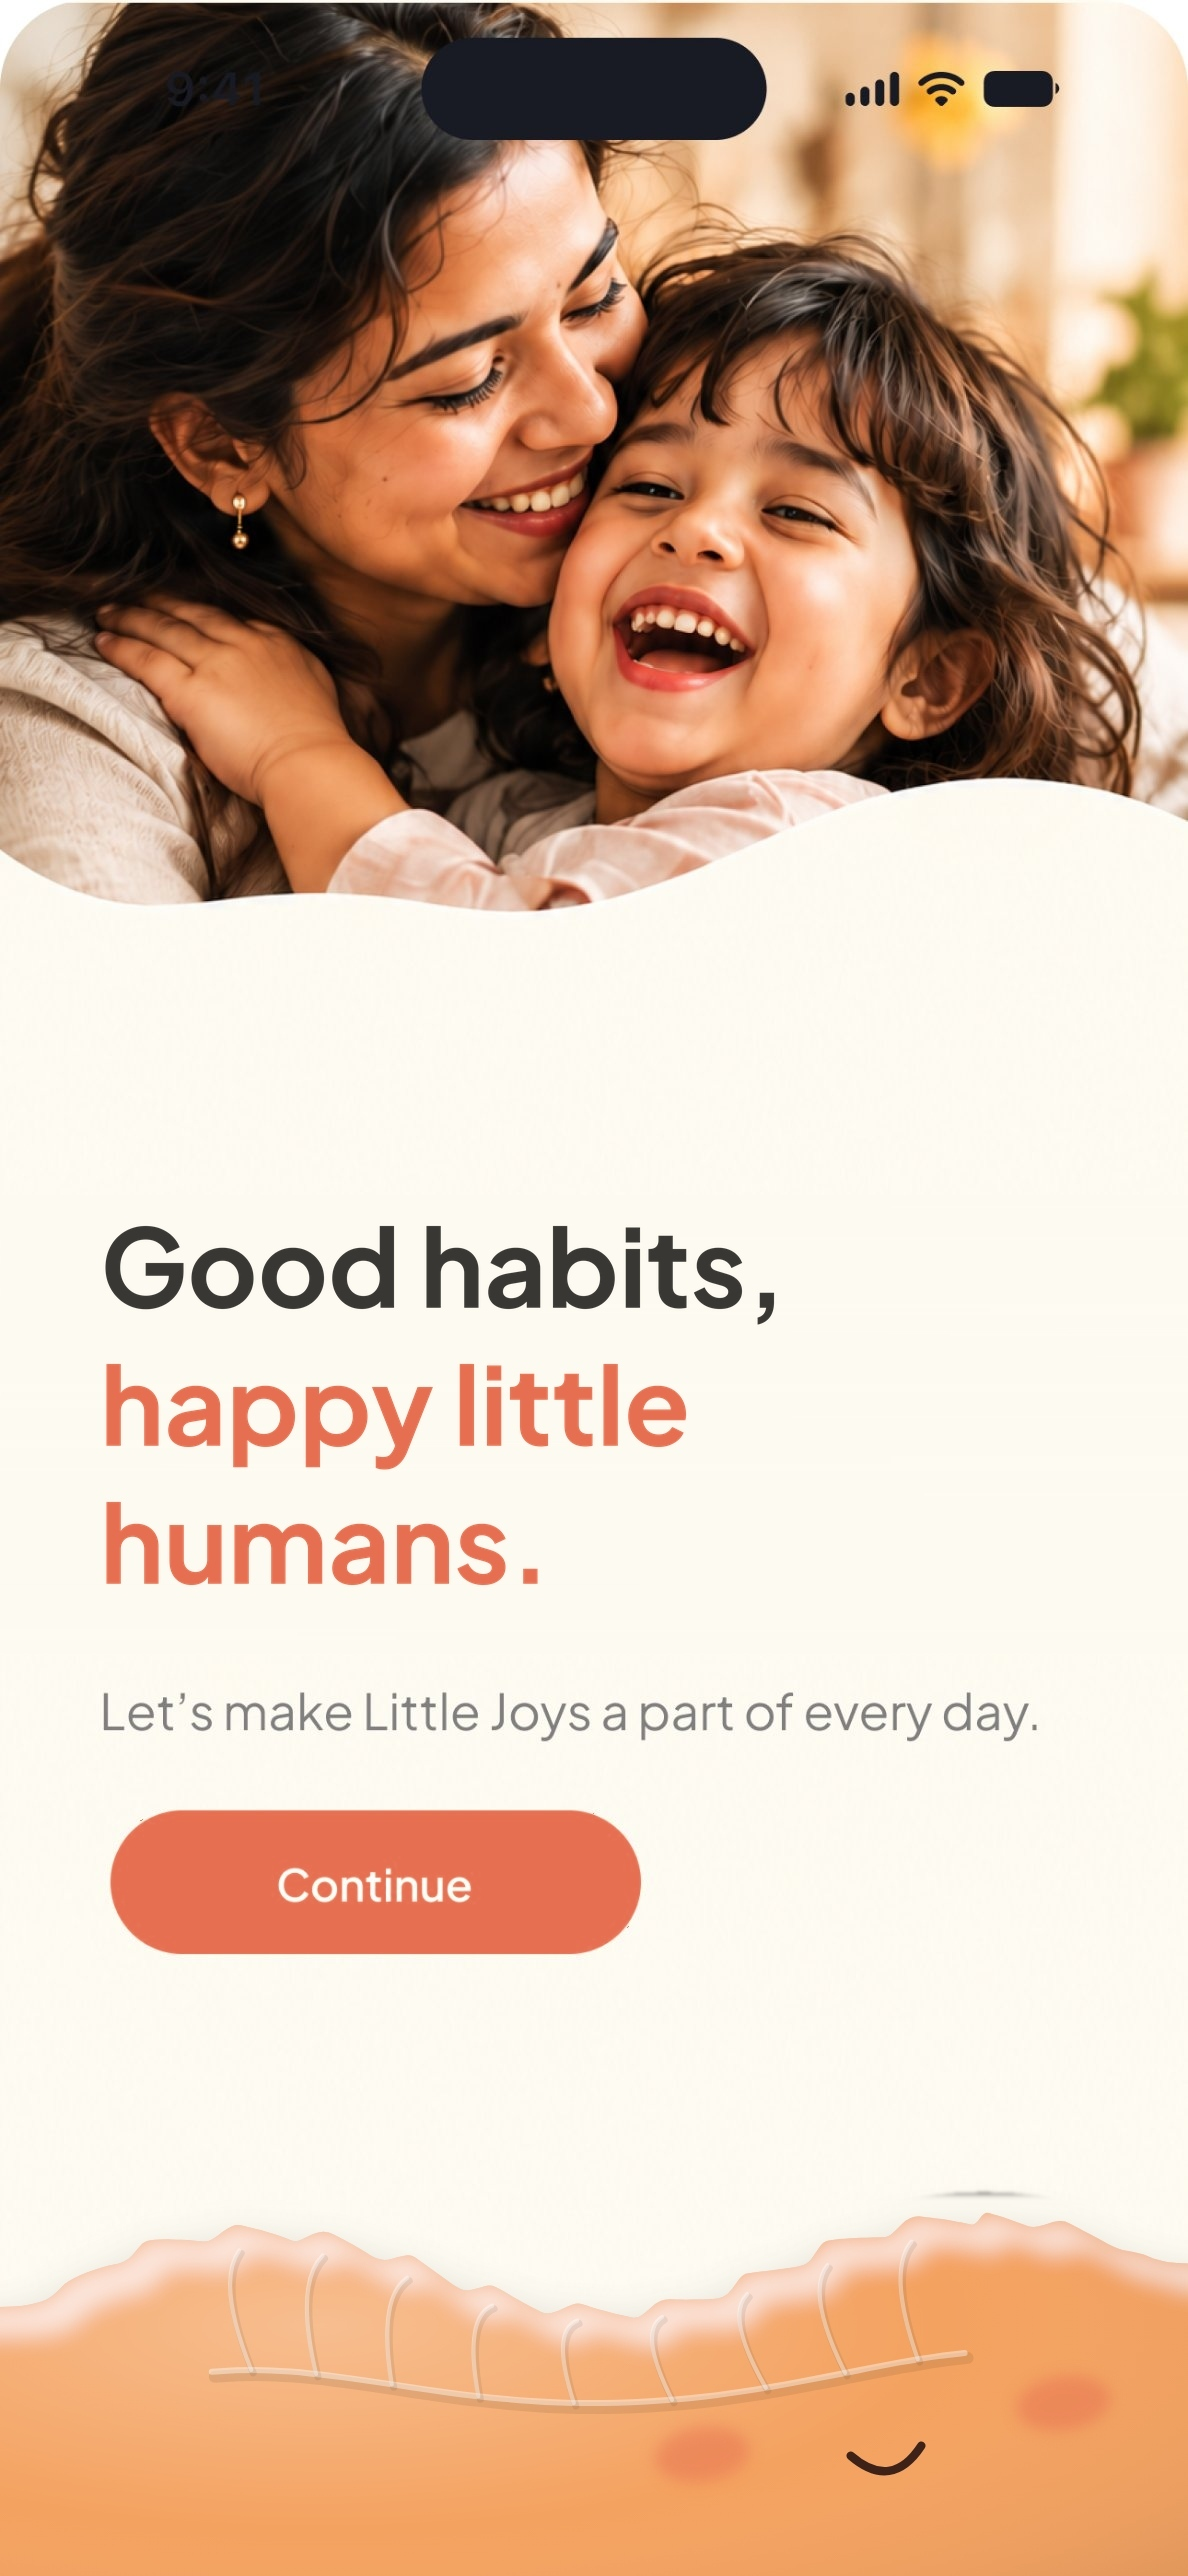
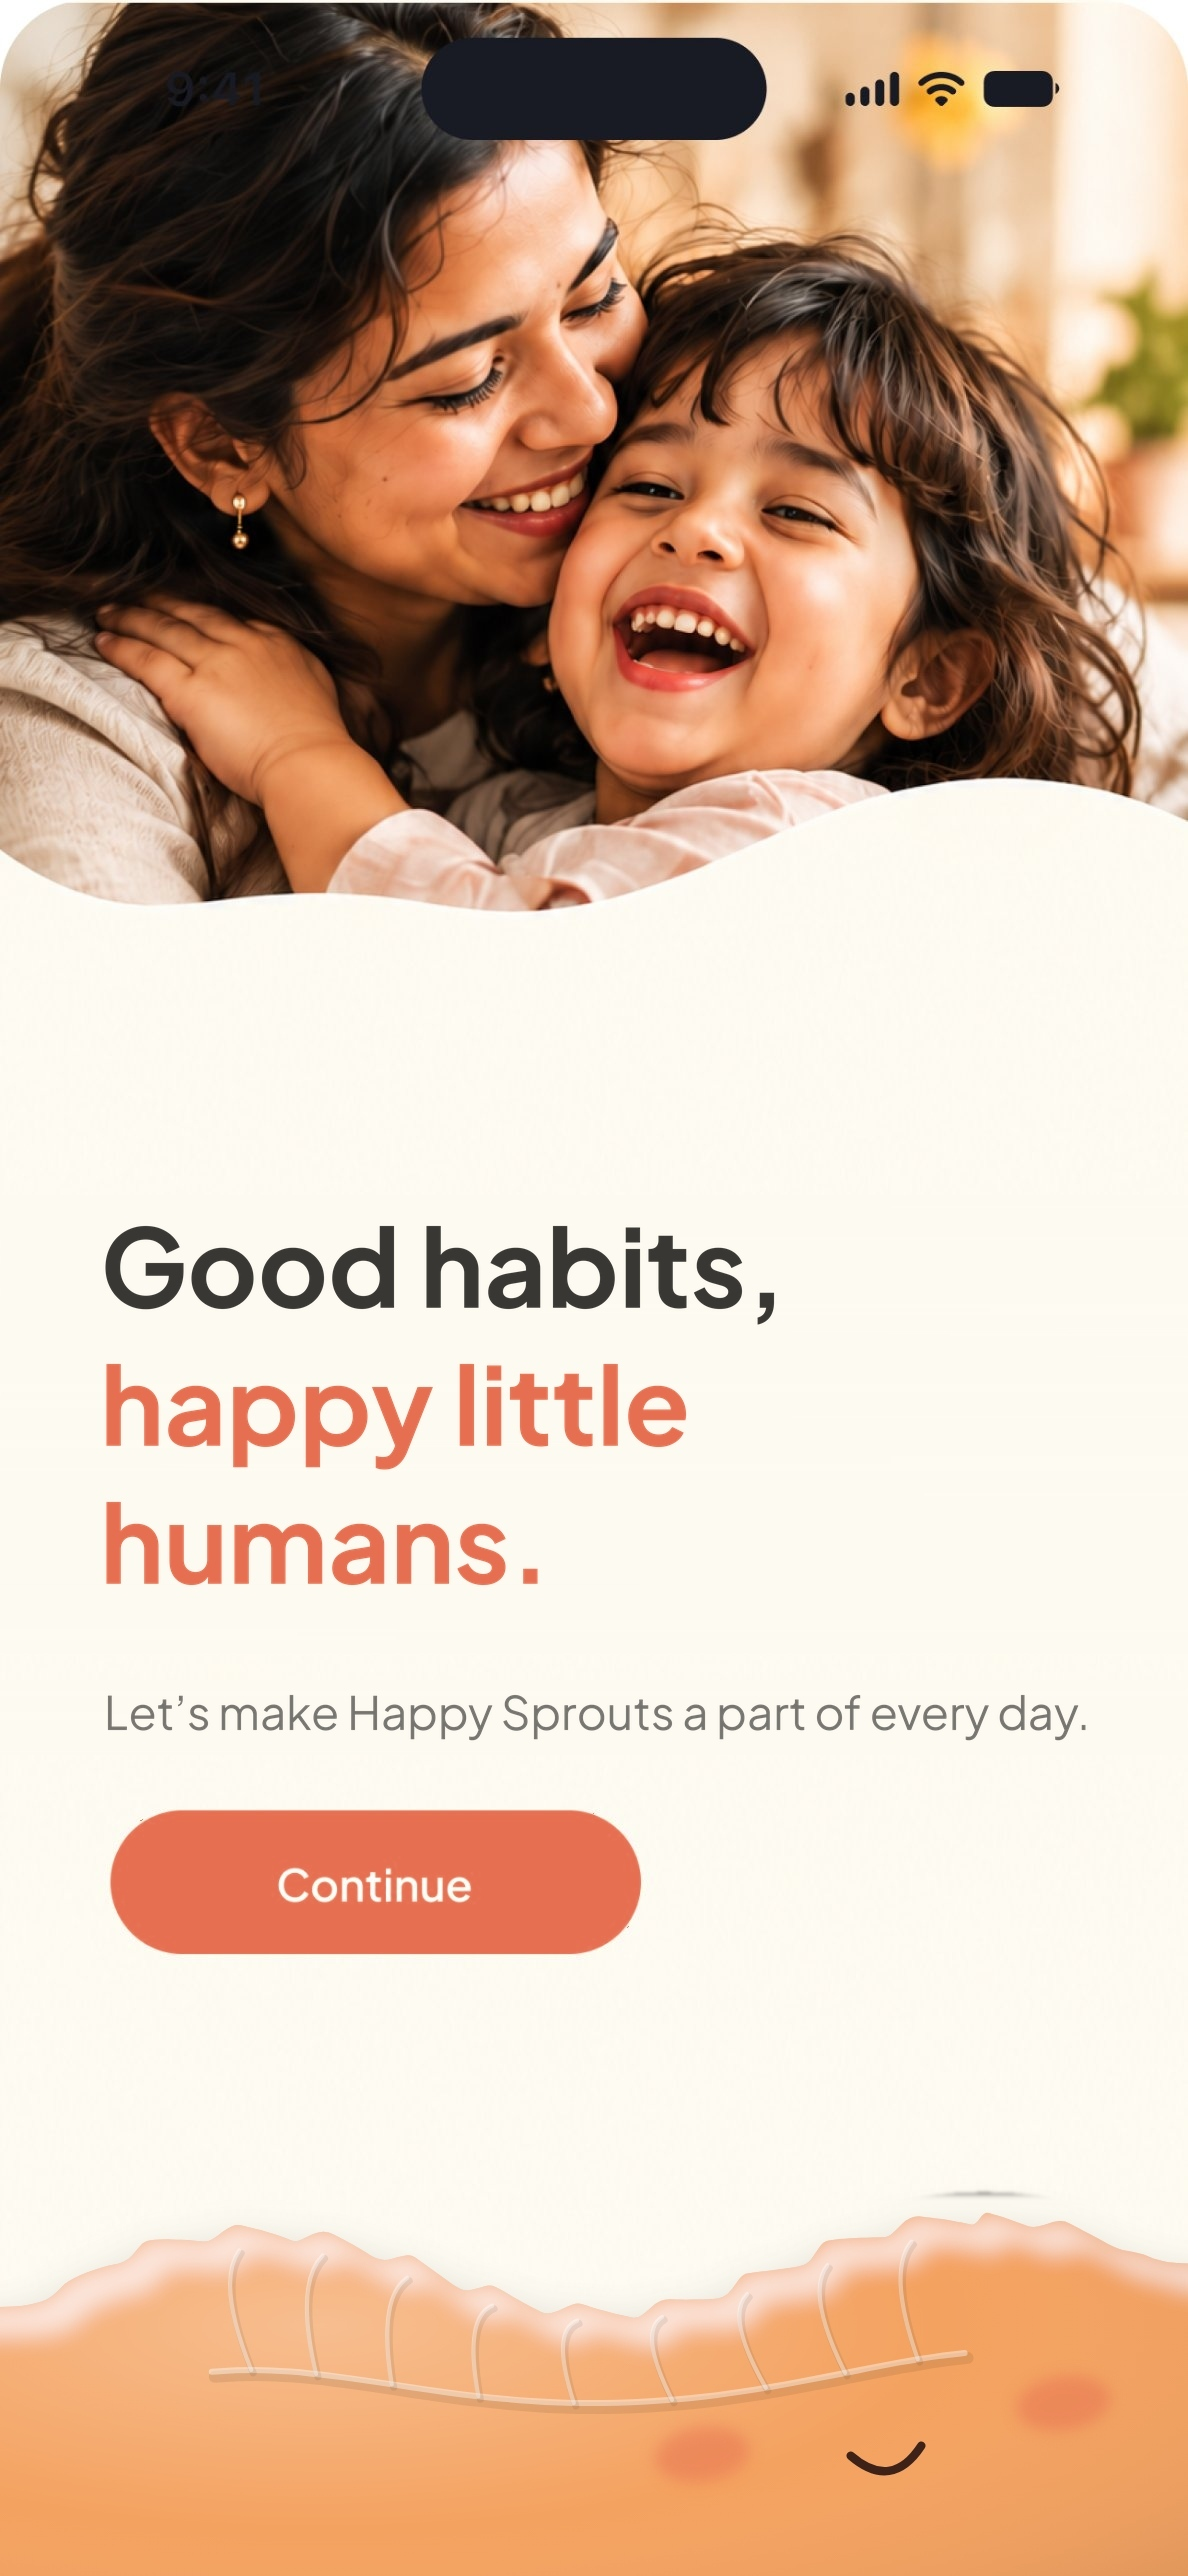
Three-loop edit: intro/walkthrough/clean loops, per-visit holds, voiceover + quieter music, Happy Sprouts brand fix on Screen 8
Claude-Session: https://claude.ai/code/session_012MFRAXk1nFKCekWRAcEZ4r

Changed region(s): [[0.1557, 0.6522, 0.9032, 0.6832], [0.0934, 0.6522, 0.1246, 0.6832]]

diff --git a/index.html b/index.html
@@ -6,8 +6,10 @@
 <div id=stage><div id=fade></div></div><script src=data.js></script><script>
 /* ===== EDIT ME – all times in seconds ===== */
 const CFG={
- loops:2, move:.95,                                   // loops through screens 1-9, cover-flow step length
+ loops:3, move:.95,                                   // loops through screens 1-9, cover-flow step length
  hold:[3.0,3.4,6.2,5.2,5.8,5.8,6.6,3.0,3.6],          // time each screen is centred (screens 1..9)
+ visitHold:{0:[5.9,1.4,1.4,1.4,1.5,1.5,1.5,1.5,1.5],1:[4.1,3.8,6.2,5.5,6.9,8.0,6.9,3.6,4.0]}, // loop 1 (intro) / loop 2 (walkthrough) hold times in seconds at natural pace; loop 3 (clean loop) uses `hold` above
+ loopSpeed:[1,1,1.3323],                               // playback speed per loop (loop 3 is the faster clean showcase)
  tail:.8, fadeIn:.5,                                  // end fade-out / start fade-in
  flow:{x:[0,530,900,1040,1100],s:[1,.66,.4,.3,.3],o:[1,.38,0,0,0],centreH:880,cy:590,labelTop:44,labelFade:[.2,.5]}, // by distance from centre
  blink:{dur:.22,s1:[[.9,3.1],[.4,2.7],[1.6,3.6]],s8:[[1.5,3.0]],s9:[[1.3,3.2],[1.9,2.8]]},
@@ -57,14 +59,14 @@ const SC=[
  r=>scroller(r,'b/p7.jpg',4119,CFG.scroll7,true),
  r=>{I(r,'s8.jpg',0,0);const b=eyes(r,8,CFG.blink.s8);return(a,lt)=>b(lt)},
  r=>{I(r,'s9.jpg',0,0);const b=eyes(r,9,CFG.blink.s9,1);return(a,lt)=>b(lt)}];
-const V=CFG.loops*N,S0=[];let acc=0;for(let n=0;n<V;n++){S0.push(acc);acc+=CFG.hold[n%N]+M}
-const TOTAL=S0[V-1]+CFG.hold[(V-1)%N]+CFG.tail,FADE0=TOTAL-CFG.tail;
-const vis=[...Array(N)].map((_,i)=>{const L=[];for(let n=i;n<V;n+=N){const q=n-4,R=q>=0?S0[q]+CFG.hold[q%N]:-1e9;L.push({R,S:S0[n],hold:CFG.hold[i]})}return L});
+const V=CFG.loops*N,S0=[],HD=n=>{const a=CFG.visitHold[Math.floor(n/N)];return a?a[n%N]:CFG.hold[n%N]};let acc=0;for(let n=0;n<V;n++){S0.push(acc);acc+=HD(n)+M}
+const TOTAL=S0[V-1]+HD(V-1);   // natural-time end of the last screen
+const vis=[...Array(N)].map((_,i)=>{const L=[];for(let n=i;n<V;n+=N){const q=n-4,R=q>=0?S0[q]+HD(q):-1e9;L.push({R,S:S0[n],hold:HD(n)})}return L});
 const LAB=[['Splash Screen','Introduce the brand before asking for anything'],['Loading Screen','Build anticipation'],['Age Selection','Personalise the experience around the child'],['Parent Focus','Understand what parents need most'],['Did You Know?','Build curiosity with credible insight'],['Here\u2019s How We Help','Demonstrate value before the sign-up ask'],['Personalised Preview','Make the benefits tangible'],['Brand Tagline','Build emotional connection to support conversion'],['Sign Up','Earn the phone number after value is established']];
 const labs=LAB.map(([n,p])=>{const e=E(st,'div');e.className='lab';e.innerHTML=`<b>${n}</b><span>${p}</span>`;return e});
 const scr=SC.map(f=>{const el=E(st,'div');el.className='scr';return{el,upd:f(el)}});
 const lerpT=(arr,r)=>{const i=Math.min(Math.floor(r),arr.length-2),f=r-i;return arr[i]+(arr[i+1]-arr[i])*f};
-function renderN(t){let p=0;for(let n=0;n<V-1;n++)p+=sm((t-(S0[n]+CFG.hold[n%N]))/M);
+function renderN(t,tv){let p=0;for(let n=0;n<V-1;n++)p+=sm((t-(S0[n]+HD(n)))/M);
  const F=CFG.flow,sc0=F.centreH/NH;
  scr.forEach((s,i)=>{let r=(((i-p)%N)+N+N/2)%N-N/2;const ar=Math.min(Math.abs(r),4),L=labs[i],lo=cl((F.labelFade[1]-ar)/(F.labelFade[1]-F.labelFade[0]));
   L.style.opacity=lo;L.style.transform=`translate(${960+Math.sign(r)*lerpT(F.x,Math.min(ar,4))*.3}px,${F.labelTop+(1-lo)*8}px)`;
@@ -73,9 +75,14 @@ function renderN(t){let p=0;for(let n=0;n<V-1;n++)p+=sm((t-(S0[n]+CFG.hold[n%N])
   Object.assign(s.el.style,{transform:`translate(${960+x}px,${F.cy}px) scale(${sc})`,opacity:o,zIndex:Math.round(100-ar*10)});
   let v=vis[i][0];for(const q of vis[i])if(q.R<=t)v=q;const a=t-v.S,act=a>-M-.3&&a<v.hold+M+.3;
   s.upd(a,act?a+M:0)});
- document.getElementById('fade').style.opacity=Math.max(1-t/CFG.fadeIn,(t-FADE0)/CFG.tail,0)}
+ document.getElementById('fade').style.opacity=Math.max(1-tv/CFG.fadeIn,(tv-VEND)/CFG.tail,0)}
 const fit=()=>{if(/render/.test(location.search))return;const k=Math.min(innerWidth/1920,innerHeight/1080);st.style.transform=`scale(${k})`;st.style.left=(innerWidth-1920*k)/2+'px';st.style.top=(innerHeight-1080*k)/2+'px'};
-const SPEED=parseFloat((location.search.match(/speed=([\d.]+)/)||[0,CFG.speed||1])[1]);function render(t){renderN(t*SPEED)}
-fit();addEventListener('resize',fit);render(0);window.TOTAL=TOTAL/SPEED;window.S0=S0;window.render=render;window.ready=Promise.all([...document.images].map(i=>i.decode().catch(()=>0)));
-if(!/render/.test(location.search)){let t0=performance.now();(function f(n){render(Math.min(((n-t0)/1000)%(TOTAL/SPEED+1),TOTAL/SPEED));requestAnimationFrame(f)})(t0)}
+const SP3=parseFloat((location.search.match(/speed=([\d.]+)/)||[0,CFG.loopSpeed[2]])[1]),LSP=[CFG.loopSpeed[0],CFG.loopSpeed[1],SP3];
+// loops: natural-time boundaries -> video-time boundaries (each loop can run at its own speed)
+const LB=[S0[0],S0[N],S0[2*N],TOTAL],VS=[0];for(let l=0;l<CFG.loops;l++)VS.push(VS[l]+(LB[l+1]-LB[l])/LSP[l]);
+const VEND=VS[CFG.loops],VTOTAL=VEND+CFG.tail;
+const warp=tv=>{let l=CFG.loops-1;while(l>0&&tv<VS[l])l--;return Math.min(LB[l]+(tv-VS[l])*LSP[l],TOTAL)};
+function render(tv){renderN(warp(tv),tv)}
+fit();addEventListener('resize',fit);render(0);window.TOTAL=VTOTAL;window.VS=VS;window.S0=S0;window.render=render;window.ready=Promise.all([...document.images].map(i=>i.decode().catch(()=>0)));
+if(!/render/.test(location.search)){let t0=performance.now();(function f(n){render(Math.min(((n-t0)/1000)%(VTOTAL+1),VTOTAL));requestAnimationFrame(f)})(t0)}
 </script>

diff --git a/audio/mix.py b/audio/mix.py
@@ -1,0 +1,74 @@
+"""Builds the soundtrack: original soft music bed (no sound effects) + voiceover clips, mixed with independent levels.
+Inputs: vo_*.wav (gen_vo.py), timeline from index.html (video seconds). Output: final.wav (48k stereo-free mono)."""
+import numpy as np, soundfile as sf, json
+from scipy.ndimage import gaussian_filter1d
+from scipy.signal import resample_poly
+SR = 24000
+VS = json.load(open('timeline.json'))          # {'VS':[...], 'S0':[...], 'total':...}
+T = VS['total']; N = int(T * SR)
+S0v = VS['S0v']                                  # video-time start of each of the 27 screen visits
+vo_dur = json.load(open('vo_durations.json'))
+
+# ---------------- voiceover placement (video seconds)
+place = [('i0', .8), ('i1', S0v[1]), ('i2', S0v[5] + .1), ('i3', S0v[8] - .9)]
+place += [(f'w{k}', S0v[9 + k - 1] + .35) for k in range(1, 8)]      # walkthrough: screens 1-7 only; none on 8, 9 or in loop 3
+vo = np.zeros(N)
+for name, t0 in place:
+    x, sr = sf.read(f'vo_{name}.wav'); assert sr == SR
+    i = int(t0 * SR); assert i + len(x) <= N, name
+    # tiny fades on every clip so cuts never click
+    f = int(.02 * SR); x = x.copy(); x[:f] *= np.linspace(0, 1, f); x[-f:] *= np.linspace(1, 0, f)
+    vo[i:i + len(x)] += x
+    print(f'{name}: {t0:.2f}-{t0 + len(x) / SR:.2f}s')
+voice_on = gaussian_filter1d((np.abs(vo) > .004).astype(float), .25 * SR)   # ~1 while speaking
+voice_on = np.clip(voice_on * 3, 0, 1)
+
+# ---------------- music bed (original; soft marimba-like plucks over a warm pad; no chimes / effects)
+rng = np.random.default_rng(7); mu = np.zeros(N)
+def f(m): return 440 * 2 ** ((m - 69) / 12)
+def add(t, sig, g=1.):
+    i = int(t * SR)
+    if i >= N: return
+    j = min(N, i + len(sig)); mu[i:j] += sig[:j - i] * g
+def pluck(fr, dur=1.4, br=.5):
+    t = np.arange(int(SR * dur)) / SR; env = np.exp(-t * 3.2) * (1 - np.exp(-t * 400))
+    return sum(np.sin(2 * np.pi * fr * k * t) * (br ** (k - 1)) / k for k in (1, 2, 3, 4)) * env
+def pad(frs, dur):
+    t = np.arange(int(SR * dur)) / SR; env = np.minimum(1, t / .9) * np.minimum(1, (dur - t) / .9)
+    return sum(np.sin(2 * np.pi * fr * t) + .5 * np.sin(2 * np.pi * fr * 1.003 * t) for fr in frs) * env / len(frs)
+bpm = 104; beat = 60 / bpm; bar = 4 * beat
+prog = [(48, [60, 64, 67]), (45, [57, 60, 64]), (41, [57, 60, 65]), (43, [59, 62, 67])]   # C Am F G
+mel = [[0, 4, 7, 4, 9, 7, 4, 2], [4, 7, 9, 7, 12, 9, 7, 4], [0, 2, 4, 7, 4, 2, 0, -3], [2, 4, 7, 9, 7, 4, 2, 0]]
+for b in range(int(T / bar) + 2):
+    t0 = b * bar; root, ch = prog[b % 4]
+    add(t0, pad([f(m) for m in ch], bar + .5), .06)
+    for k in range(8): add(t0 + k * beat / 2, pluck(f(ch[k % 3] + 12), .7, .35), .09)
+    add(t0, pluck(f(root), 1.6, .25), .20); add(t0 + 2 * beat, pluck(f(root + 7), 1.2, .25), .12)
+    if b >= 2:
+        for k, d in enumerate(mel[b % 4]):
+            if (b % 8 >= 4) or k % 2 == 0: add(t0 + k * beat / 2, pluck(f(72 + d), 1.0, .55), .08)
+rv = np.zeros(N)
+for d, g in ((.047, .35), (.071, .28), (.113, .2), (.167, .14)):
+    k = int(d * SR); rv[k:] += mu[:-k] * g
+mu = mu + rv * .8
+mu = mu / np.sqrt(np.mean(mu ** 2))                    # unit RMS, levels are set below in dB
+
+# ---------------- independent levels (dBFS RMS of the music bed)
+VS_ = VS['VS']                                         # video-time start of loops 1,2,3 (+ end)
+t = np.arange(N) / SR
+lvl = np.full(N, -33.)                                 # between voice lines / screens 08-09: soft
+lvl = np.where(voice_on > .5, -42., lvl)               # under the voice: well behind it
+lvl = np.where(t >= VS_[2] + .5, -32., lvl)            # loop 3: soft but audible
+lvl = gaussian_filter1d(lvl, 1.1 * SR)                 # long, smooth ramps = no audible jumps
+gain = 10 ** (lvl / 20)
+fade_in = np.minimum(1, t / 1.5); fade_out = np.minimum(1, np.maximum(0, (T - t)) / 3.0)
+mu = mu * gain * fade_in * fade_out
+
+# ---------------- voice level and final mix
+vo = vo / np.abs(vo).max() * .85                       # voice stays loud on its own
+mix = vo + mu
+mix = np.tanh(mix * 1.0) if np.abs(mix).max() > .98 else mix
+sf.write('final_raw.wav', mix, SR)
+rms = lambda a: 20 * np.log10(np.sqrt(np.mean(a ** 2)) + 1e-9)
+sp = voice_on > .5
+print('voice RMS while speaking %.1f dB; music RMS under voice %.1f dB; music loop 3 %.1f dB' % (rms(vo[sp]), rms(mu[sp]), rms(mu[t >= VS_[2] + 2])))

diff --git a/restyle.py b/restyle.py
@@ -392,6 +392,11 @@ def screen8():
     im = rd('8__Tagline.jpg')
     def pre(bg):
         ya, yb = 1195, 1655; o = bg.copy(); o[ya:yb] = rowfill(bg, ya, yb)[ya:yb]
+        o[1680:1755] = rowfill(bg, 1680, 1755)[1680:1755]   # supporting line: 'Little Joys' -> 'Happy Sprouts' (retypeset in Plus Jakarta Sans 400, same size/position)
+        f4 = ImageFont.truetype('fonts/pjs400.ttf', 184); lay = Image.new('RGBA', (1188 * 4, 75 * 4), (0, 0, 0, 0))
+        ImageDraw.Draw(lay).text((104 * 4, (1730 - 1680) * 4), 'Let\u2019s make Happy Sprouts a part of every day.', font=f4, fill=(117, 115, 110, 255), anchor='ls')
+        ar = np.array(lay.resize((1188, 75), Image.LANCZOS)); aa = ar[..., 3:4].astype(np.float32) / 255
+        o[1680:1755] = (o[1680:1755].astype(np.float32) * (1 - aa) + ar[..., :3][..., ::-1] * aa).astype(np.uint8)
         ss = 4; SZ = 108; font = ImageFont.truetype(FONT, SZ * ss); layer = Image.new('RGBA', (1188 * ss, (yb - ya) * ss), (0, 0, 0, 0)); dr = ImageDraw.Draw(layer)
         asc = -font.getbbox('l', anchor='ls')[1] / ss; base3 = 1502 + asc; DARK = (56, 55, 51); cc = tuple(int(c) for c in CORAL)
         for i, (t, c) in enumerate([('Good habits,', DARK), ('happy little', cc), ('humans.', cc)]):

diff --git a/audio/script.py b/audio/script.py
@@ -1,0 +1,16 @@
+"""Voiceover script (exact text from the brief). Loop 1 = intro, Loop 2 = walkthrough (screens 08/09 silent), Loop 3 = silent."""
+INTRO = [
+ "What if the best way to get parents to sign up was to stop asking them to sign up so soon?",
+ "Instead, give them a reason to care. Understand their needs, spark curiosity, and show them what they get before asking for their details.",
+ "The idea? Make onboarding feel personal, build trust, and make conversion feel earned.",
+ "Here's my take on that for Happy Sprouts.",
+]
+WALK = {
+ 1: "A playful introduction to Happy Sprouts and its characters.",
+ 2: "A fun gummy animation while the experience loads.",
+ 3: "First, we personalise the experience based on the child's age.",
+ 4: "Then, we understand what the parent needs help with, from nutrition to healthy habits.",
+ 5: "Next, we offer a relevant insight that sparks curiosity and gives parents a reason to explore.",
+ 6: "Instead of making parents sign up to discover the value, we show them practical ideas and recipes that address their needs.",
+ 7: "Parents get a preview of content tailored to their child's age and interests, so they can see what they're getting.",
+}

diff --git a/audio/gen_vo.py b/audio/gen_vo.py
@@ -1,0 +1,13 @@
+import numpy as np, soundfile as sf, json, warnings; warnings.filterwarnings('ignore')
+from kokoro_onnx import Kokoro
+from script import INTRO, WALK
+k=Kokoro('kokoro-v1.0.onnx','voices-v1.0.bin'); VOICE='af_heart'; SPD=0.97
+out={}
+def gen(name,txt):
+    x,sr=k.create(txt,voice=VOICE,speed=SPD,lang='en-us'); x=x.astype(np.float32)
+    # trim leading/trailing silence
+    a=np.abs(x); idx=np.nonzero(a>.01)[0]; x=x[max(idx[0]-int(.02*sr),0):idx[-1]+int(.05*sr)]
+    sf.write(f'vo_{name}.wav',x,sr); out[name]=len(x)/sr; print(name,round(out[name],2),txt[:50])
+for i,t in enumerate(INTRO): gen(f'i{i}',t)
+for n,t in WALK.items(): gen(f'w{n}',t)
+json.dump(out,open('vo_durations.json','w'))
